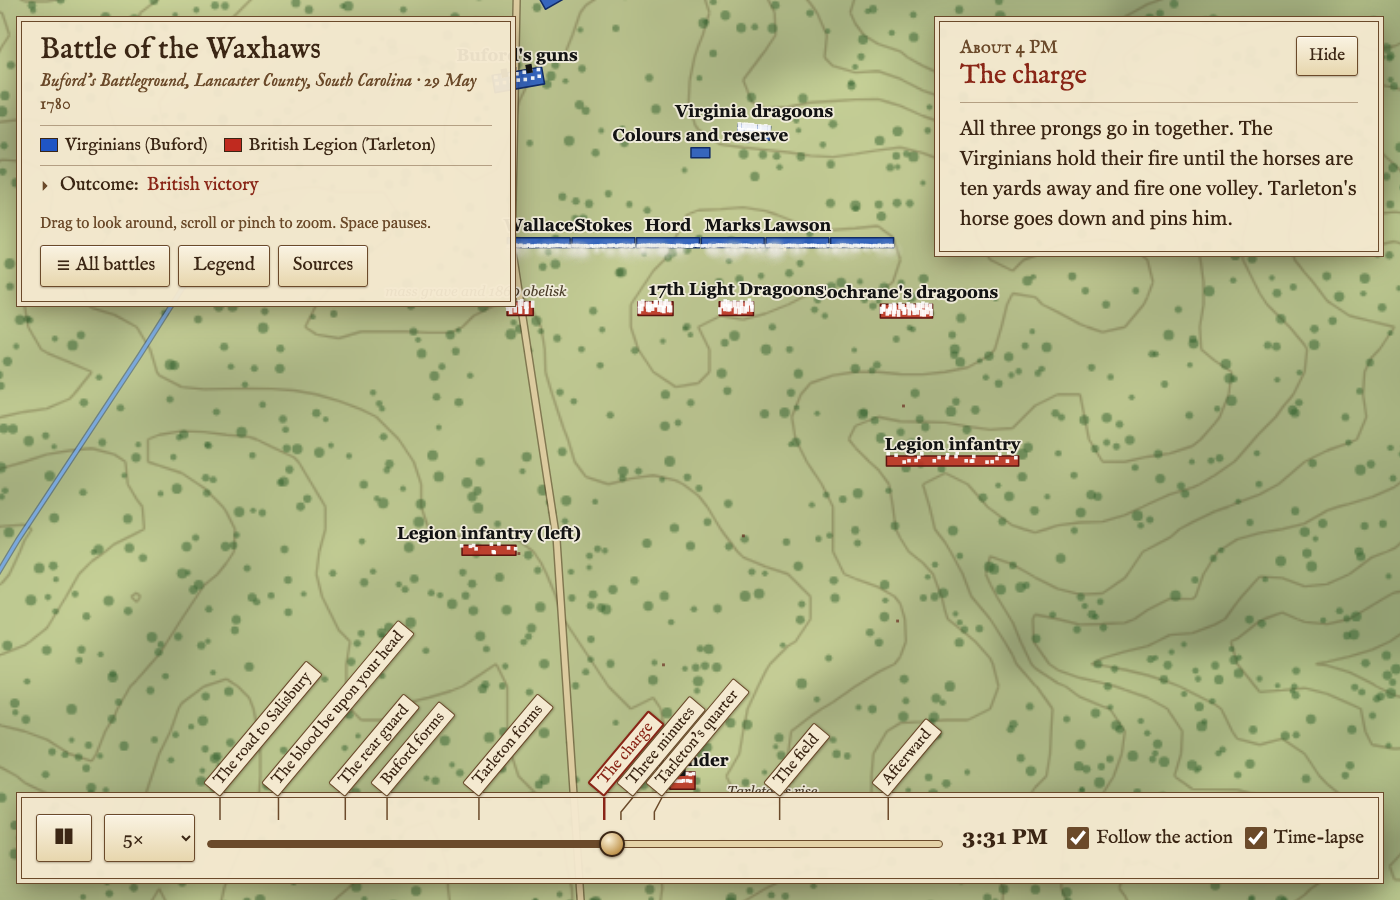
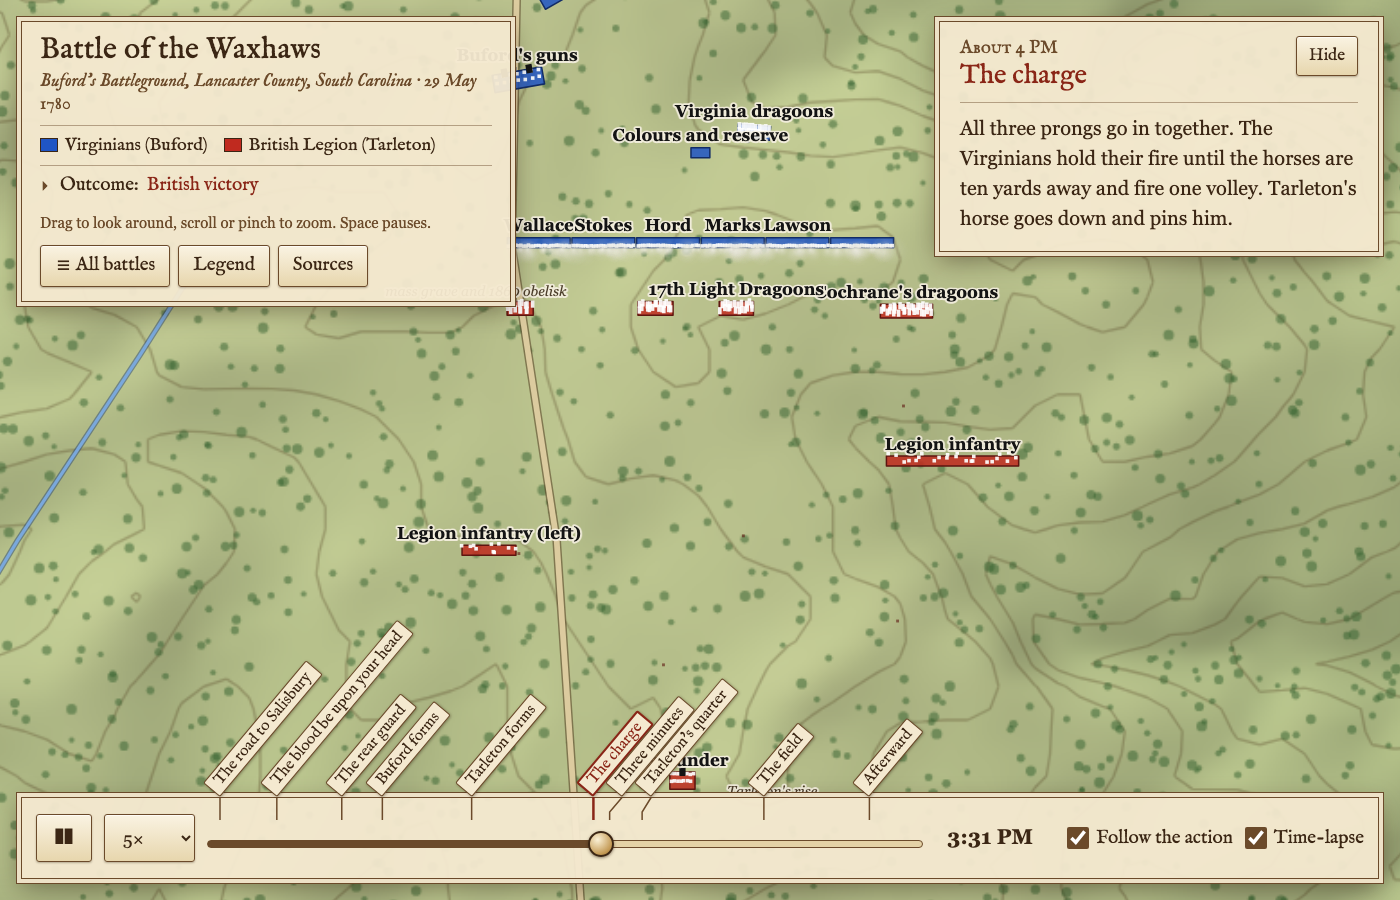
Hold the clock at a fixed width so ticking minutes don't shift the bar
Georgia's figures differ in width, so each tick resized the clock and
nudged the scrubber. The clock now takes the width of the widest time
the battle can show, and the time-lapse mark sits outside it. On
phones the scrubber gets its own row so the dated clock fits.

Claude-Session: https://claude.ai/code/session_01US5GXUxojnCZWhZHcue3aU

diff --git a/index.html b/index.html
@@ -70,7 +70,8 @@
   #marks path { fill: none; stroke: var(--rule); stroke-width: 1.5; } #marks path.on { stroke: var(--accent); stroke-width: 2.5; }
   #marks button { position: absolute; bottom: 23px; min-height: 0; height: 22px; padding: 0 8px; border-radius: 2px; background: var(--paper-solid); box-shadow: 0 1px 3px rgba(40,25,10,0.4); font-size: 16px; line-height: 20px; white-space: nowrap; transform-origin: 0 100%; transform: rotate(-50deg); }
   #marks button:hover, #marks button.on { color: var(--accent); } #marks button.on { border-color: var(--accent); border-width: 2px; line-height: 18px; }
-  #clock { font-variant-numeric: tabular-nums lining-nums; min-width: 100px; text-align: center; font-size: 21px; font-weight: 700; white-space: nowrap; }
+  #clock { flex: none; position: relative; margin-left: 12px; font-variant-numeric: tabular-nums lining-nums; text-align: left; font-size: 21px; font-weight: 700; white-space: nowrap; }
+  #clock.lapsing::before { content: "»"; position: absolute; right: 100%; padding-right: 4px; } /* time-lapse running; outside the width so it never shifts the bar */
   #bar label { display: inline-flex; align-items: center; gap: 7px; white-space: nowrap; font: 19px var(--fell); cursor: pointer; }
   #bar input[type=checkbox] { width: 22px; height: 22px; margin: 0; accent-color: var(--muted); }
   dialog { background: var(--paper-solid); color: var(--ink); border: 1px solid var(--rule); box-shadow: var(--frame); max-width: min(640px, calc(100vw - 42px)); max-height: calc(100vh - 42px); padding: 20px 26px; }
@@ -101,10 +102,10 @@
     #top h1 { font-size: 22px; } #sub { font-size: 15px; } #hint, #legend { display: none; }
     select, button { min-height: 44px; padding: 6px 10px; font-size: 17px; }
     #hover { display: none; }
-    #bar { left: 17px; right: 17px; bottom: 17px; gap: 5px; padding: 8px 6px; } #bar label span { display: none; } #speed { padding: 6px 2px 6px 6px; }
-    #play { width: 48px; min-width: 48px; font-size: 20px; } #clock { min-width: 0; font-size: 15px; }
-    #track { min-width: 30px; padding-top: 0; } #marks { display: none; } /* no room for chapters on a phone's scrubber */
-    #caption { top: auto; bottom: 96px; left: 17px; right: 17px; width: auto; max-height: 40vh; padding: 10px 14px; } #cap-title { font-size: 21px; } #cap-when { font-size: 15px; } #cap-text { font-size: 17px; margin-top: 6px; padding-top: 6px; }
+    #bar { left: 17px; right: 17px; bottom: 17px; gap: 0 6px; padding: 8px 10px 0; flex-wrap: wrap; } #clock { margin-left: auto; } #bar label span { display: none; } #speed { padding: 6px 0 6px 4px; font-size: 16px; }
+    #play { width: 44px; min-width: 44px; font-size: 18px; } #clock { font-size: 15px; }
+    #track { order: 1; flex: 1 0 100%; padding-top: 0; } #marks { display: none; } /* the scrubber takes its own row; no room for chapters */
+    #caption { top: auto; bottom: 150px; left: 17px; right: 17px; width: auto; max-height: 40vh; padding: 10px 14px; } #cap-title { font-size: 21px; } #cap-when { font-size: 15px; } #cap-text { font-size: 17px; margin-top: 6px; padding-top: 6px; }
   }
 </style>
 </head>

diff --git a/app.js b/app.js
@@ -33,6 +33,7 @@ async function loadBattle(id) {
   for (const s of SPEEDS) if (s <= 120 || dur / s >= 120) ui.speed.add(new Option(`${s}×`, s)); // the big speeds only when the battle lasts
   ui.speed.value = speed;
   ui.scrub.min = b.startT; ui.scrub.max = b.endT;
+  sizeClock();
   buildMarks(b); buildLegend(b);
   ui.title.textContent = b.name;
   ui.sub.textContent = `${b.place} · ${b.dateText ?? b.date}`;
@@ -477,7 +478,7 @@ function buildLegend(b) {
 // ---------- hud and controls ----------
 
 function updateHud() {
-  ui.clock.textContent = (playing && lapsing ? '» ' : '') + fmtTime(t);
+  ui.clock.textContent = fmtTime(t); ui.clock.classList.toggle('lapsing', playing && lapsing);
   ui.scrub.value = t; ui.scrub.style.setProperty('--p', `${((t - B.startT) / (B.endT - B.startT)) * 100}%`);
   if (curEvent !== shownEvent) {
     shownEvent = curEvent;
@@ -543,7 +544,16 @@ function resize() {
   canvas.width = W * DPR; canvas.height = H * DPR;
   canvas.style.width = W + 'px'; canvas.style.height = H + 'px';
 }
-addEventListener('resize', () => { resize(); if (B) clampCam(); });
+// Georgia's figures differ in width, so the clock is held at the width of the widest time it can show; otherwise every tick nudges the scrubber.
+function sizeClock() {
+  let w = 0; ui.clock.style.width = '';
+  for (let d = B.startT; d < B.endT + 86400; d += 86400) { // 10:00 PM on each day of the battle
+    ui.clock.textContent = fmtTime(d - mod(d, 86400) + 79200);
+    w = Math.max(w, ui.clock.offsetWidth);
+  }
+  ui.clock.style.width = `${w + 4}px`;
+}
+addEventListener('resize', () => { resize(); if (B) { clampCam(); sizeClock(); } });
 new ResizeObserver(() => B && layoutMarks()).observe(ui.marks); // the track also narrows when the clock text widens
 resize();
 
